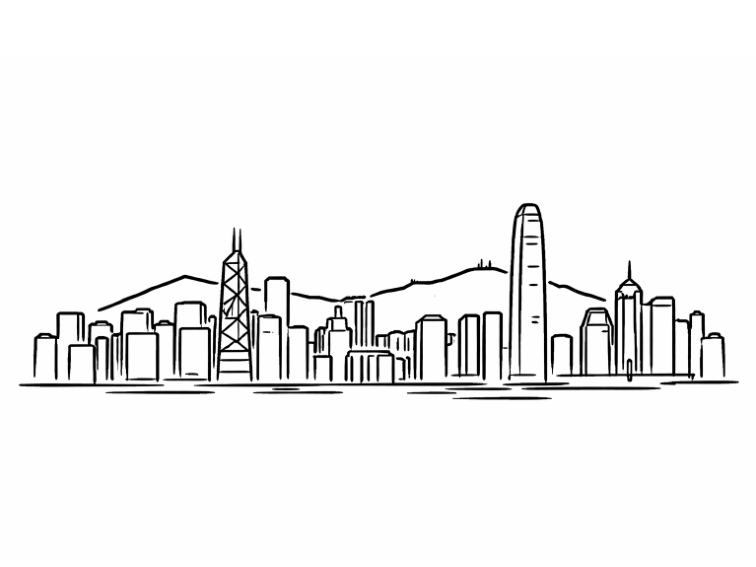
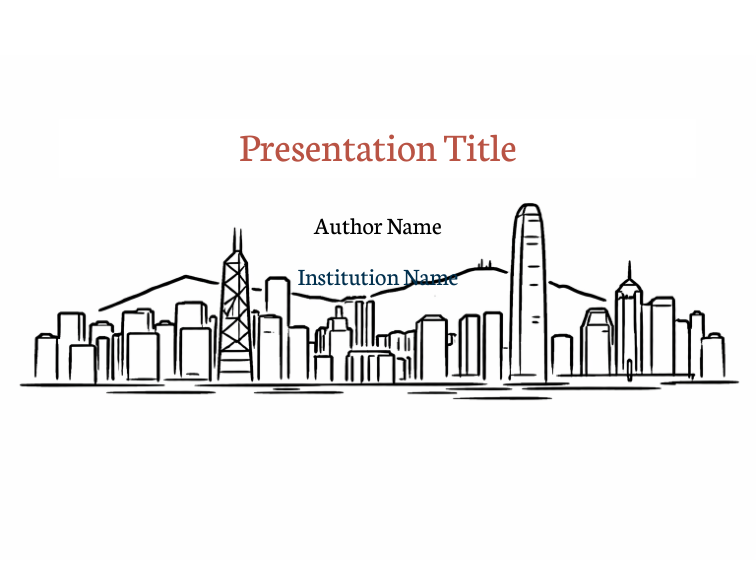
Fix title page: skyline AND title text both visible
Root cause: \\IfFileExists inside \\usebackgroundtemplate doesn't evaluate correctly.
Fix: check file existence BEFORE the background template, use \\ifdefined.
Title page now shows skyline at bottom with title text above.

diff --git a/recipes/d-rose/main.tex b/recipes/d-rose/main.tex
@@ -9,12 +9,26 @@
 \institute[]{Institution Name}
 \date{}
 
+\IfFileExists{fig/hkskyline.png}{%
+  \newcommand\hasSkyline{yes}%
+}{}
+
 \begin{document}
 
+{%
+\ifdefined\hasSkyline
+  \usebackgroundtemplate{%
+    \begin{tikzpicture}[remember picture,overlay]
+      \node[anchor=south] at (current page.south)
+        {\includegraphics[width=\paperwidth]{fig/hkskyline.png}};
+    \end{tikzpicture}%
+  }
+\fi
 \begin{frame}[plain]
   \vspace{-1cm}
   \titlepage
 \end{frame}
+}
 
 \input{content/overview}
 \input{content/figures}